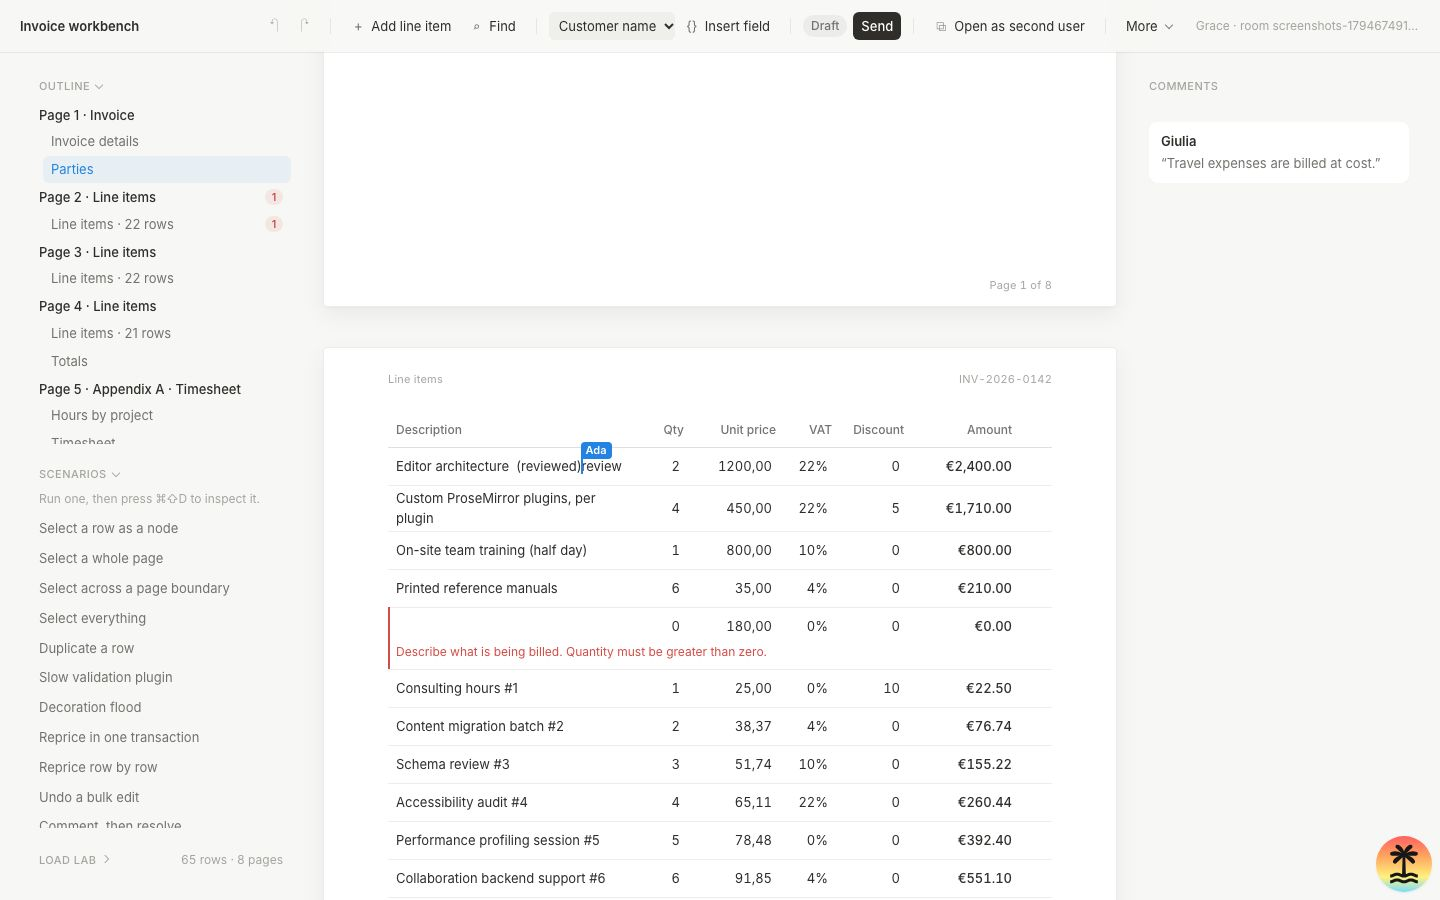
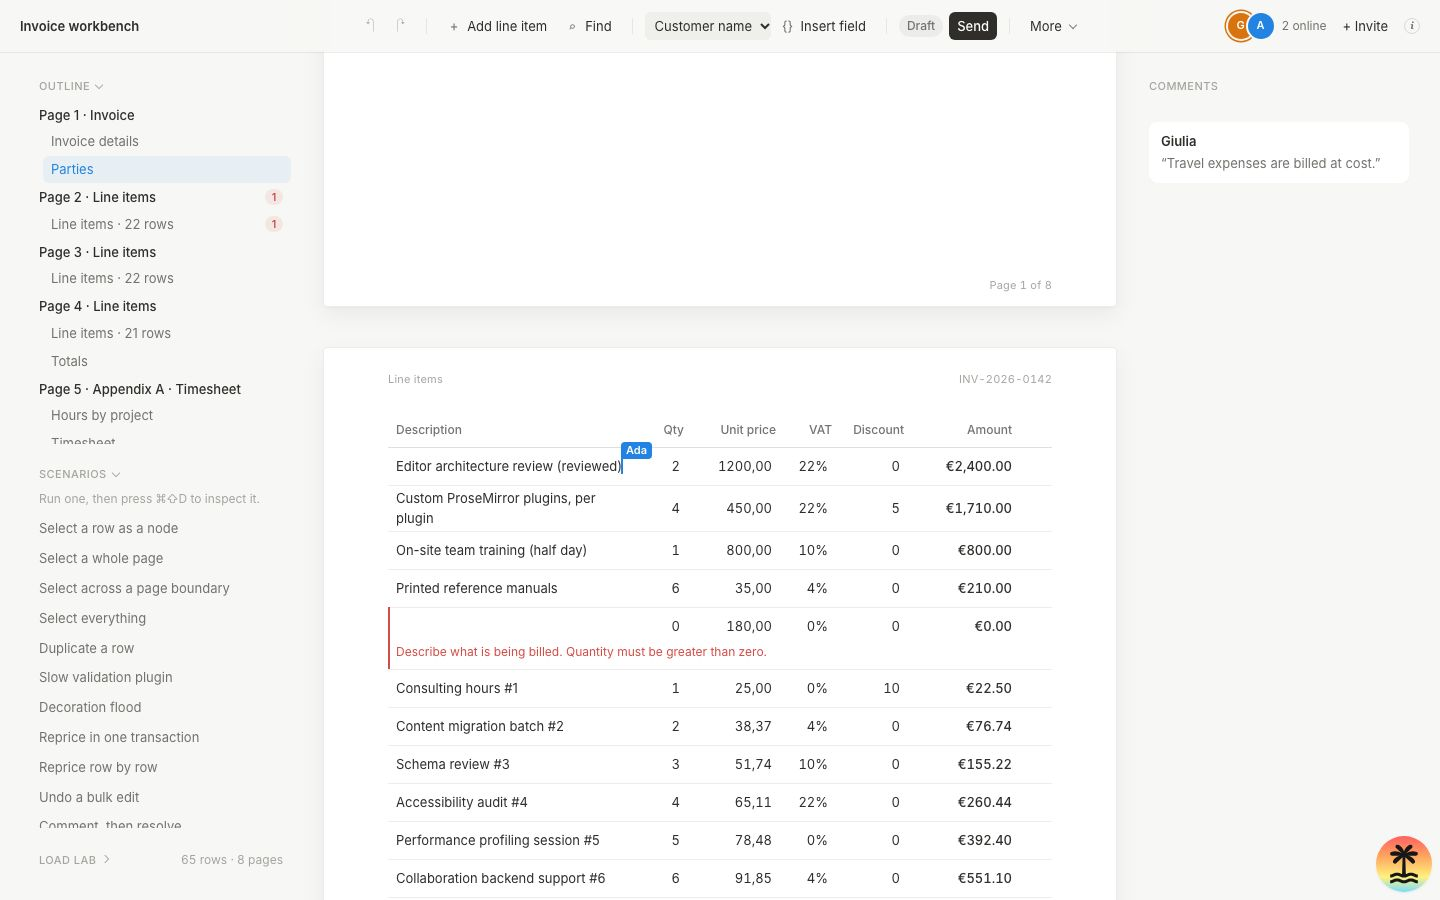
test(examples): cover default-on collaboration, refresh screenshots and docs
The single-user dispatch-count test runs under ?solo. The two-tab test
starts from the bare URL and invites through + Invite. A new test opens two
tabs at once: both get one 65-row invoice and distinct users, both see both
avatars, the remote avatar scrolls to the other tab's caret, and closing a
tab removes its avatar.

The screenshot script uses the default room and + Invite. The README
documents the default room, ?solo, presence, and the local-only scope, and
the landing page points at + Invite.

diff --git a/e2e/invoice.spec.ts b/e2e/invoice.spec.ts
@@ -1,4 +1,4 @@
-import { expect, test } from "@playwright/test";
+import { expect, test, type Page } from "@playwright/test";
 
 import { available, callTool, editorTarget } from "./inspection-tools";
 
@@ -9,6 +9,8 @@ async function transactionCount(page: Parameters<typeof editorTarget>[0], target
   if (!Array.isArray(result.value)) throw new Error("Expected dispatch summaries.");
   return result.value;
 }
+
+const invoiceUrl = "http://127.0.0.1:4184/";
 
 function toCents(money: string | null): number {
   return Number((money ?? "").replace(/[^\d]/g, ""));
@@ -22,7 +24,8 @@ test("invoice totals follow edits, paid locks the editor, and the inspector show
   page.on("console", (message) => {
     if (message.type() === "error") errors.push(message.text());
   });
-  await page.goto("http://127.0.0.1:4184");
+  // Single-user mode: the dispatch counts below assume no collaboration traffic.
+  await page.goto(`${invoiceUrl}?solo`);
   const editor = page.getByRole("textbox", { name: "Invoice editor", exact: true });
   await expect(editor).toBeVisible();
   const amountDue = page.getByLabel("Amount due", { exact: true });
@@ -83,7 +86,7 @@ test("invoice totals follow edits, paid locks the editor, and the inspector show
 });
 
 test("an outline entry selects its heading and scrolls it under the top bar", async ({ page }) => {
-  await page.goto("http://127.0.0.1:4184");
+  await page.goto(invoiceUrl);
   await expect(page.getByRole("textbox", { name: "Invoice editor", exact: true })).toBeVisible();
   const target = await editorTarget(page);
   const outline = page.getByRole("navigation", { name: "Document outline" });
@@ -109,7 +112,7 @@ test("an outline entry selects its heading and scrolls it under the top bar", as
 });
 
 test("the agent scenario shows its tool calls in the WebMCP tab", async ({ page }) => {
-  await page.goto("http://127.0.0.1:4184");
+  await page.goto(invoiceUrl);
   await expect(page.getByRole("textbox", { name: "Invoice editor", exact: true })).toBeVisible();
   const scenario = page.locator(".scenario", { hasText: "Agent reads the invoice" });
   await scenario.locator("summary").click();
@@ -123,16 +126,16 @@ test("the agent scenario shows its tool calls in the WebMCP tab", async ({ page 
   await expect(page.getByText("passed", { exact: true }).first()).toBeVisible();
 });
 
-test("two tabs in one room share typing and the paid status", async ({ context }) => {
-  const room = `e2e-${Date.now()}`;
+test("two tabs in the default room share typing and the paid status", async ({ context }) => {
   const ada = await context.newPage();
-  await ada.goto(`http://127.0.0.1:4184/?room=${room}&user=Ada`);
+  await ada.goto(invoiceUrl);
+  await expect(ada).toHaveURL(/\?room=invoice&user=Ada$/);
   await expect(ada.locator(".row-description").first()).toContainText("Editor architecture review");
   const [grace] = await Promise.all([
     context.waitForEvent("page"),
-    ada.getByRole("button", { name: "Open as second user", exact: true }).click(),
+    ada.getByRole("button", { name: "+ Invite", exact: true }).click(),
   ]);
-  await expect(grace).toHaveURL(/user=Grace/);
+  await expect(grace).toHaveURL(/\?room=invoice&user=Grace$/);
   const graceEditor = grace.getByRole("textbox", { name: "Invoice editor", exact: true });
   await expect(grace.locator(".row-description").first()).toContainText(
     "Editor architecture review",
@@ -150,4 +153,47 @@ test("two tabs in one room share typing and the paid status", async ({ context }
   await ada.getByRole("button", { name: "Mark paid", exact: true }).click();
   await expect(graceEditor).toHaveAttribute("contenteditable", "false");
   await expect(grace.getByRole("button", { name: "Add line item", exact: true })).toBeDisabled();
+});
+
+function userOf(page: Page): string | null {
+  return new URL(page.url()).searchParams.get("user");
+}
+
+test("presence lists both tabs, jumps to the remote caret, and drops a closed tab", async ({
+  context,
+}) => {
+  // Opened together, both tabs seed the invoice and both start as Ada until the room renames one.
+  const pages = [await context.newPage(), await context.newPage()];
+  await Promise.all(pages.map((page) => page.goto(invoiceUrl)));
+  for (const page of pages) await expect(page.locator(".line-item")).toHaveCount(65);
+  await expect.poll(() => pages.map(userOf).sort()).toEqual(["Ada", "Grace"]);
+  const ada = pages.find((page) => userOf(page) === "Ada")!;
+  const grace = pages.find((page) => userOf(page) === "Grace")!;
+
+  for (const [page, self, other] of [
+    [ada, "Ada", "Grace"],
+    [grace, "Grace", "Ada"],
+  ] as const) {
+    const presence = page.getByRole("group", { name: "People in this room" });
+    await expect(presence.getByRole("button", { name: `You, ${self}`, exact: true })).toBeVisible();
+    await expect(
+      presence.getByRole("button", { name: `Jump to ${other}`, exact: true }),
+    ).toBeVisible();
+    await expect(presence.getByText("2 online", { exact: true })).toBeVisible();
+  }
+
+  await grace.bringToFront();
+  await grace.locator(".row-description").nth(50).click();
+  await grace.keyboard.type(" (Grace was here)");
+  await ada.bringToFront();
+  const remoteRow = ada.locator(".row-description", { hasText: "(Grace was here)" });
+  await expect(remoteRow).toHaveCount(1);
+  await expect(remoteRow).not.toBeInViewport();
+  await ada.getByRole("button", { name: "Jump to Grace", exact: true }).click();
+  await expect(ada.locator(".is-spotlit", { hasText: "(Grace was here)" })).toBeInViewport();
+  await expect(ada.locator(".collaboration-carets__label", { hasText: "Grace" })).toBeInViewport();
+
+  await grace.close();
+  await expect(ada.getByRole("button", { name: "Jump to Grace", exact: true })).toHaveCount(0);
+  await expect(ada.getByText("1 online", { exact: true })).toBeVisible();
 });

diff --git a/site/index.html b/site/index.html
@@ -248,8 +248,8 @@
           <li>Run "Agent reads the invoice" and open the WebMCP tab.</li>
           <li>Export a recording and open it in the read-only viewer.</li>
           <li>
-            Pick More › Collaborate in two tabs, then Open as second user. The tabs sync over
-            BroadcastChannel, so both must be in this browser.
+            Press + Invite at the top right to open the same invoice as a second user. The tabs sync
+            over BroadcastChannel, so both must be in this browser.
           </li>
         </ul>
       </section>

diff --git a/examples/invoice/README.md b/examples/invoice/README.md
@@ -64,8 +64,8 @@ build without the showcase flag ships none of it. It wires:
   `installProseMirrorChromeBridge` and `installProseMirrorWebMCPBridge`. The "Agent reads the
   invoice" scenario dispatches the Chrome DevTools MCP discovery event and calls three tools, so the
   tab shows real calls without a connected agent;
-- `createHistoryInspector()`, which finds the `history()` plugin Tiptap installs after setup.
-  Transactions show undo and redo depths for each dispatch;
+- under `?solo`, `createHistoryInspector()`, which finds the `history()` plugin Tiptap installs
+  after setup. Transactions show undo and redo depths for each dispatch;
 - `performanceExtension: true`, so a Chrome Performance recording with **Show custom tracks**
   shows dispatches, phases, plugin hooks, and markers as tracks;
 - snapshots through `createSnapshot` and `persistSnapshots`: the snapshot scenario saves one before
@@ -76,22 +76,61 @@ build without the showcase flag ships none of it. It wires:
   `mountProseMirrorRecordingInspector` is inert outside development, and the Pages showcase is a
   production build.
 
-## Two tabs, two users
+## Collaboration
 
-Add `?room=<id>&user=<name>` to collaborate through Yjs, or pick **More › Collaborate in two
-tabs**. **Open as second user** opens the same room in a new tab under another name and color.
+Every tab joins the `invoice` room through Yjs. `src/collab/config.ts` parses the URL once into
+`{ mode: "solo" }` or `{ mode: "room", room, user }`:
+
+- `?room=<id>` picks another room, and `?user=<name>` picks the user;
+- without `user`, a tab reuses the name it kept in `sessionStorage`, so a reload stays the same
+  person. A fresh tab starts as the first person in the table;
+- once the room answers, a tab whose name an earlier tab already holds takes the first free name;
+- the tab then writes `room` and `user` back with `history.replaceState`, so the address is
+  shareable;
+- `?solo`, or **More › Work alone (no collaboration)**, opts out. It keeps prosemirror-history,
+  the history inspector, and the "Undo history depth" scenario. **More › Collaborate in two tabs**
+  goes back to the room.
+
+The sticky top bar shows everyone in the room as avatars with their initials on their color, your
+own with a ring. A tooltip gives the name and whether they are editing, selecting, or away, with the
+page. Clicking someone else's avatar maps their awareness cursor through y-prosemirror's relative
+positions, as CollaborationCaret does, and scrolls to it under the spotlight. A tab in the
+background has no live cursor, so the jump uses the last selection it published. **+ Invite**
+opens the room in a new tab as the next free user. The info mark says the sync stays in this
+browser.
+
+A closing tab removes its awareness state on `pagehide`, so its avatar leaves the other tabs at
+once. A tab that dies without `pagehide` drops out when y-protocols times its awareness out, after
+30 seconds. Avatars fade and scale in and out over 160 ms, and only fade under reduced motion.
 
 The transport is `src/collab/broadcast-provider.ts`, a BroadcastChannel provider. It only reaches
 tabs of the same browser and origin, which also holds on GitHub Pages. A joining tab sends its state
 vector and receives what it lacks, and awareness carries names, colors, carets, and selections.
-Only the first peer of an empty room seeds the fixture.
+
+Every tab seeds the fixture before it connects, under one fixed Yjs client id. Each seed produces
+the same Yjs items, so merging two seeds changes nothing: a tab alone is editable without waiting
+for the room, and two tabs opened together never duplicate the invoice.
 
 In a room, `@tiptap/extension-collaboration` replaces prosemirror-history, so undo, redo, and the
 "Undo a bulk edit" scenario use the Yjs undo manager. `@tiptap/extension-collaboration-caret`
 draws remote carets. The id normalizer derives a duplicate's new id from the document alone, so
-peers never overwrite each other's ids, and editability still follows the shared status. The
-inspector adds `createYjsInspector` and a `createTransportObserver` fed by the provider, and the
-Invoice tab adds a Collaboration section with peers, last sync, and bytes sent and received.
+peers never overwrite each other's ids, and editability still follows the shared status.
+
+The inspector adds `createYjsInspector` and a `createTransportObserver` fed by the provider.
+`createTiptapInspector` associates `collaboration` with `ySyncPluginKey` and `yUndoPluginKey`, and
+`collaborationCaret` with `yCursorPluginKey`, all from `@tiptap/y-tiptap`. The caret plugin is
+created in `addProseMirrorPlugins`, so `yjs-cursor$` is instrumented like the others. Its
+companion awareness listener plugin has an unexported key, so it shows in Plugins without an
+association. The Invoice tab's Collaboration section lists each user with their color, local or
+remote, and cursor position, next to the last sync and the bytes sent and received.
+
+Two scenarios cover the room. "Open a second user" opens a tab. "Watch a remote edit" starts a
+second Yjs client on its own BroadcastChannel in the same tab, which joins, appends to the first
+row, and leaves, so its edit arrives through the real transport.
+
+Each late `registerPlugin`, such as the bubble menu's, recreates every plugin view, and y-sync then
+re-renders the whole document, keeping the selection by position. Timeline shows these as full
+document replaces right after load.
 
 ## The Invoice tab
 
